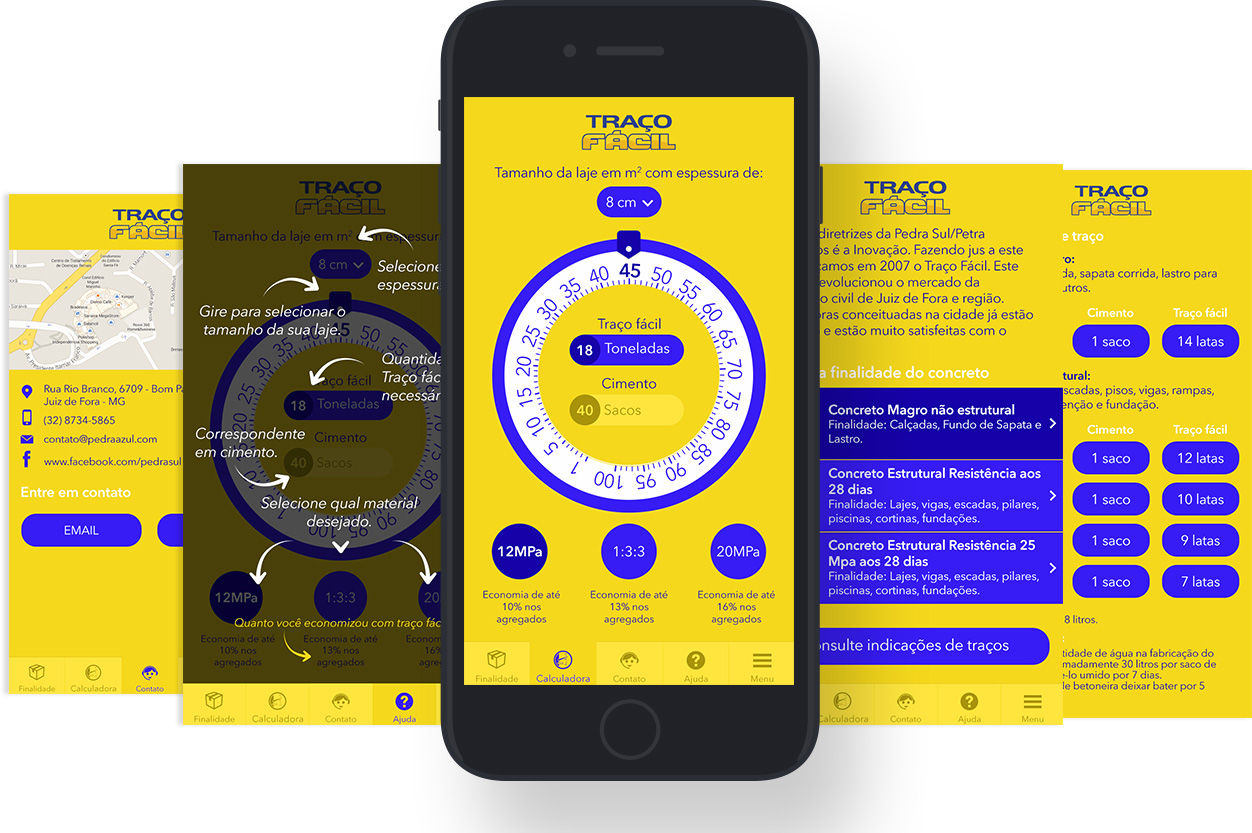
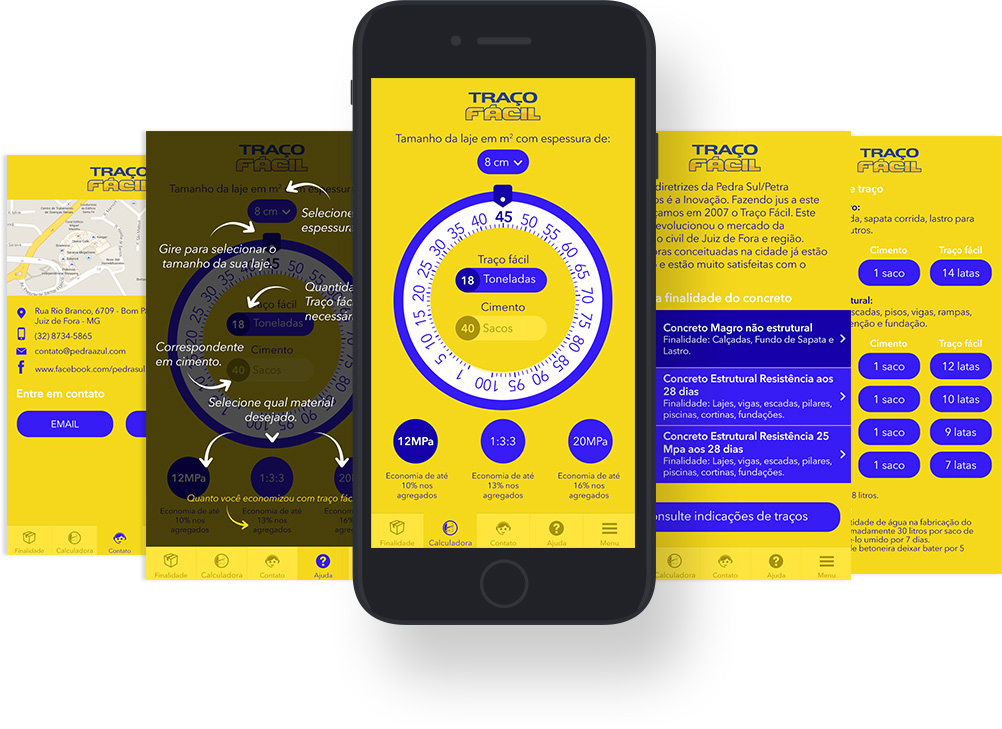
change image size pedra sul

diff --git a/src/projects/Pedrasul.js b/src/projects/Pedrasul.js
@@ -1,6 +1,6 @@
 import React from 'react'
 
-import { Image, Project, Title, Text } from '../Case.js'
+import { Image, ImageGroup, Project, Title, Text } from '../Case.js'
 import cover from '../images/pedrasul/cover.jpg'
 import img_1 from '../images/pedrasul/f1.jpg'
 import img_2 from '../images/pedrasul/f2.jpg'
@@ -15,7 +15,12 @@ export default props =>
     <Text>Create a simple, easy-to-use application that brings convenience to customers when calculating their spending on building materials.</Text>
     <Image src={img_1} alt='Pedra Sul' />
     <Title>Screens</Title>
-    <Image src={img_2} alt='Pedra Sul' />
- <Text></Text>
-    <Image src={img_3} alt='Pedra Sul' />
+
+
+    <ImageGroup>
+        <div><Image src={img_2} alt='Pedra Sul' /></div>
+        <div><Image src={img_3} alt='Pedra Sul' /></div>
+    </ImageGroup>
+
+
   </Project>

diff --git a/src/Main.js b/src/Main.js
@@ -27,7 +27,6 @@ const Wrapper = styled.div`
 `
 
 const Title = styled.h1`
-  /*font-family: 'Lato', sans-serif;*/
   font-size: 3em;
   color: #251c45;
   /*text-transform: uppercase;*/
